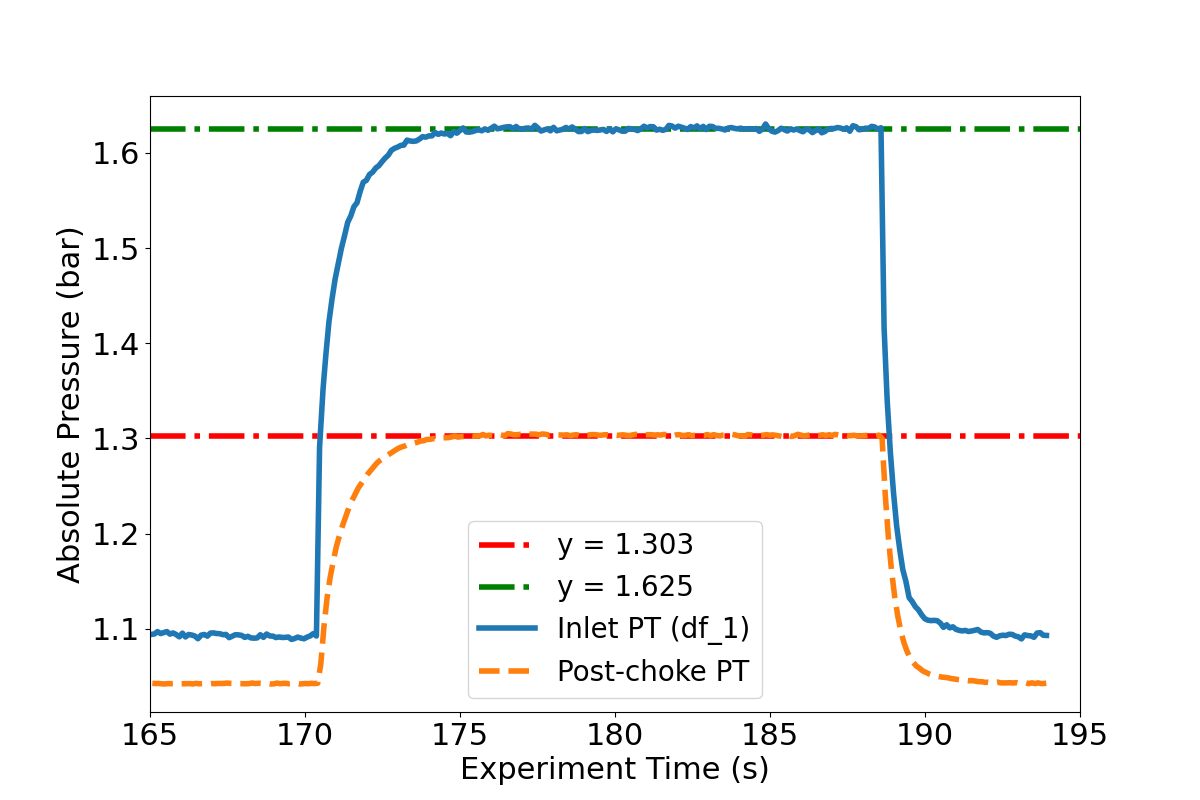
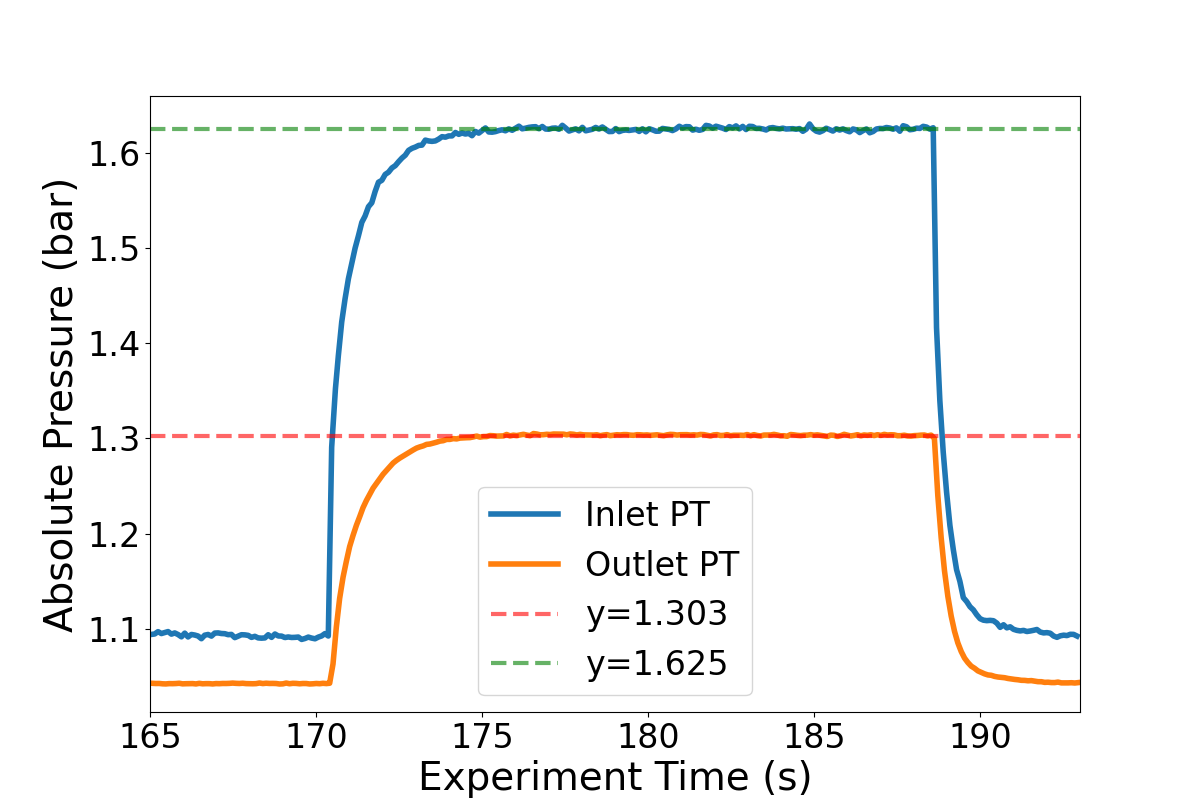
EOD push

diff --git a/latex/results.tex b/latex/results.tex
@@ -1,55 +1,96 @@
-\section{First Empty run through}\label{sec:static_test}
-\subsection{Test}
-I thought it would be good to try and categorise the static pressure losses from the flow through the tank with no sand and no piston. Unfortunately, this immediately presented some problems. Results of this test are seen below.
+\section{Characterising Pressure Source}\label{sec:static_test}
+\subsection{Initial Test}
+The first step in characterising the system was to investigate the static pressure losses present in the tank without a piston or any powder. This immediately presented a problem as the static pressure readings were far below expected, as seen in figure \autoref{fig:static-pressure-drop-3bar}. 
 \begin{figure}[htbp]
     \centering
 
     \begin{minipage}{0.45\textwidth}
         \centering
         \includegraphics[width=\textwidth]{../report_assets/3_bar_static_full.png}
-        \caption{pressure readings full.}\label{fig:static-pressure-drop-3bar_full}
+        \caption{Full 4 bar test.}\label{fig:static-pressure-drop-3bar_full}
     \end{minipage}
     \hfill
     \begin{minipage}{0.45\textwidth}
         \centering
         \includegraphics[width=\textwidth]{../report_assets/3_bar_static.png}
-        \caption{pressure readings of 3bar gauge.}\label{fig:static-pressure-drop-3bar}
+        \caption{Static pressure from 4 bar.}\label{fig:static-pressure-drop-3bar}
     \end{minipage}
     \begin{minipage}{0.45\textwidth}
         \centering
         \includegraphics[width=\textwidth]{../report_assets/4_bar_static.png}
-        \caption{pressure readings of 4bar gauge.}\label{fig:static-pressure-drop-4bar}
+        \caption{Static pressure from 5 bar.}\label{fig:static-pressure-drop-4bar}
     \end{minipage}
     \hfill
     \begin{minipage}{0.45\textwidth}
         \centering
         \includegraphics[width=\textwidth]{../report_assets/5_bar_static.png}
-        \caption{pressure readings of 5bar gauge.}\label{fig:static-pressure-drop-5bar}
+        \caption{Static pressure from 6 bar.}\label{fig:static-pressure-drop-5bar}
     \end{minipage}
 
 
 \end{figure}
-One thing of note is that the pressure transducer readings seem to deviate from atmospheric in fig 3 and 4. This is due to the solenoid valve leaking slightly allowing some air to pass through not miscalibration, yap about in appendix.
+If the compressed air line was truely supplying a stagnation pressure of 4 bar, through isentropic flow relations the data implies that the mach number of the flow is 1.3 which is unlikely.
 
-As seen in figure 1, the regulator was able to control the static pressure to 3 bar gauge when the system was closed. When the system was opened this static pressure dropped to 0.4 gauge. Even accounting for the dynamic pressure and assuming the flow was mach 1 through the 4mm nylon tube, this would put total pressure at roughly 1bar gauge not 3bar initially set.
-C
-ENTER DIAGRAMS SO ALL LEGENDS FIT AT BOTTOM CENTER
+As seen in \autoref{fig:static-pressure-drop-3bar_full}, the regulator was able to control the static pressure to 4 bar when the system was closed. When the system opens, one could expect that the regulator would maintain this 4 bar static pressure and only static pressure losses in the system and acceleration of the flow beyond the regulator would reduce it somewhat. However, by the time the flow reached the pressure transducer before the tank, the static pressure had dropped to 1.4 bar. 
+
+Assuming the flow was mach 1 through the nylon pipe, this would imply a stagnation pressure of roughly 2 bar not the 4 bar initially desired.
+
+\subsection{Further Investigation}
+In an attempt to diagnose this behaviour, a follow up test was conducted to check whether this was due to an incorrect system set up or was a product of the compressed air line.
+To further investigate this behaviour, the pressure regulator connected to the compressed air line was set to max (roughly 7bar) and a second regulator was introduced closer to the system. If the problem was large static pressure losses from the long nylon tube connecting the inlet of the experiment to the pressure source, a larger pressure during operation would have been observed. Additionally, if the pressure regulator was faulty or some other weird behaviour was occuring upstream of the setup, this could have indicated that.
+As seen in figure the performance was much worse giving even lower static pressure readings. 
+\begin{figure}[htbp]
+    \centering
+
+    \begin{minipage}{0.45\textwidth}
+        \centering
+        \includegraphics[width=\textwidth]{../report_assets/3_bar_static_new_reg.png}
+        \caption{New regulator.}\label{fig:static-pressure-drop-new-reg}
+    \end{minipage}
+    \hfill
+    \begin{minipage}{0.45\textwidth}
+        \centering
+        \includegraphics[width=\textwidth]{../report_assets/3_bar_static_no_solenoid.png}
+        \caption{New regulator + no solenoid.}\label{fig:static-pressure-drop-no-solenoid}
+    \end{minipage}
+
+\end{figure}
+As a final attempt, the solenoid valve was removed from the set up to verify that this wasnt choking the flow or somehow drastically decreasing static pressure somehow. Again, seen in fig 6, this performed similarly to the setup containing the regulator so wasn't the cause of the behaviour and the system diagram was reverted to \autoref{fig:systems-diagram}.
 \subsection{Simulation}
+A 2D Axisymmetric analysis of the empty tank was conducted using fluent. This seemed to support the idea that only 1bar of stagnation pressure was being supplied to the system, not the desired 3bar as setting the pressure inlet to 1bar gave comparable static pressure readings as seen in the tests.
+\begin{figure}[htbp]
+    \centering
+
+    \begin{minipage}{0.45\textwidth}
+        \centering
+        \includegraphics[width=\textwidth]{../report_assets/3_bar_static_new_reg.png}
+        \caption{New regulator.}\label{fig:static-pressure-drop-fluent}
+    \end{minipage}
+    \hfill
+    \begin{minipage}{0.45\textwidth}
+        \centering
+        \includegraphics[width=\textwidth]{../report_assets/3_bar_static_no_solenoid.png}
+        \caption{New regulator + no solenoid.}\label{fig:static-pressure-drop-report}
+    \end{minipage}
+
+\end{figure}
+
 
 \section{first test}
+yappa yappa
 \begin{figure}[htbp]
     \centering
 
     \begin{minipage}{0.45\textwidth}
         \centering
         \includegraphics[width=\textwidth]{../report_assets/3_bar_static_full.png}
-        \caption{pressure readings full.}\label{fig:static-pressure-drop-3bar_full}
+        \caption{pressure readings full.}\label{fig:static-pres-drop-3bar_full}
     \end{minipage}
     \hfill
     \begin{minipage}{0.45\textwidth}
         \centering
         \includegraphics[width=\textwidth]{../report_assets/3_bar_static.png}
-        \caption{pressure readings of 3bar gauge.}\label{fig:static-pressure-drop-3bar}
+        \caption{pressure readings of 3bar gauge.}\label{fig:static-pressurop-3bar}
     \end{minipage}
 
 \end{figure}
@@ -104,19 +145,19 @@ might run into the inherent cocking issue since pressure from sand is concentrat
 
 static pressure losses from the tank and set up alone
 
-3 bar (gauge) total goes to 1.405bar static and 1.195bar static = loss of 0.210bar static
-4 bar (gauge) total goes to 1.625bar static and 1.303bar static = loss of 0.322bar static
-5 bar (gauge) total goes to 1.852bar static and 1.432bar static = loss of 0.420bar static
+3 bar (gauge) stagnation goes to 1.405bar static and 1.195bar static = loss of 0.210bar static
+4 bar (gauge) stagnation goes to 1.625bar static and 1.303bar static = loss of 0.322bar static
+5 bar (gauge) stagnation goes to 1.852bar static and 1.432bar static = loss of 0.420bar static
 
 static pressure losses from the tank + piston
 
-3 bar (gauge) total goes to 1.425bar static and 1.209bar static = loss of 0.216bar static
-4 bar (gauge) total goes to 1.628bar static and 1.304bar static = loss of 0.324bar static
-5 bar (gauge) total goes to 1.831bar static and 1.431bar static = loss of 0.400bar static
+3 bar (gauge) stagnation goes to 1.425bar static and 1.209bar static = loss of 0.216bar static
+4 bar (gauge) stagnation goes to 1.628bar static and 1.304bar static = loss of 0.324bar static
+5 bar (gauge) stagnation goes to 1.831bar static and 1.431bar static = loss of 0.400bar static
 
 static pressure losses from the tank + new piston
 
-3 bar (gauge) total goes to 1.423bar static and 1.205bar static = loss of 0.218bar static
-4 bar (gauge) total goes to 1.645bar static and 1.311bar static = loss of 0.334bar static
-5 bar (gauge) total goes to 1.850bar static and 1.450bar static = loss of 0.400bar static
+3 bar (gauge) stagnation goes to 1.423bar static and 1.205bar static = loss of 0.218bar static
+4 bar (gauge) stagnation goes to 1.645bar static and 1.311bar static = loss of 0.334bar static
+5 bar (gauge) stagnation goes to 1.850bar static and 1.450bar static = loss of 0.400bar static
 

diff --git a/latex/introduction.tex b/latex/introduction.tex
@@ -1,16 +1,16 @@
-\section{Space as Resource POLISH}
-Space plays a vital role in advancing science, technology, and the broader progress of humanity. Through the exploration of space, scientists gain unique insights into the origins of the universe, the behavior of physical laws under extreme conditions, and the potential for life beyond Earth. Along with scientific descoveries, technological developments driven by space research often find critical applications on Earth. From satellite communications to microwaves, space technology improves everyday life and drives innovation across industries. Beyond tangible benefits, space exploration fosters curiosity, unity, and ambition, encouraging humanity to transcend borders and collaborate on solving challenges that face us collectively. As we expand our presence beyond Earth, space becomes not only a frontier of discovery but also a catalyst for technological and social progress on a global scale.
+\section{Space as Resource}
+Space plays a vital role in advancing science, technology, and the broader progress of humanity. Through the exploration of space, scientists gain unique insights into the origins of the universe, the behavior of physical laws under extreme conditions, and the potential for life elsewhere in the universe. Along with scientific descoveries, technological developments driven by space research often find critical applications on Earth. From satellite communications to microwaves, space technology improves everyday life and drives innovation across industries. Beyond tangible benefits, space exploration fosters curiosity, unity, and ambition, encouraging humanity to transcend borders and collaborate on solving challenges that face us collectively. As we expand our presence outside Earth, space becomes not only a frontier of discovery but also a catalyst for technological and social progress on a global scale.
 
-\section{Space as a Manufacturing Environment POLISH}
-In-space manufacturing is currently experiencing a surge in interest due to the continually decreasing cost per kilogram of putting payloads into space. With the expectation that Starship will soon reduce the price to \$150/kg from around \$1000/kg~\cite{nextbigfuture2024spacex}, there will be a plethora of new opportunities available to those that can successfully leverage the space environment to reduce the cost or increase the quality of advanced manufactured goods!!. Microgravity, high vacuum and abundant solar energy are all inherent to the space environment but are still very expensive to achieve on Earth. This!! means goods!! with these requirements during the manufacturing process would be much cheaper to make in space and bring back down to earth.
+\section{Space as a Manufacturing Environment}
+In-space manufacturing is currently experiencing a surge in interest due to the decreasing cost per kilogram of putting payloads into orbit. With the expectation that Starship will soon reduce the price from around \$1000/kg to \$150/kg~\cite{nextbigfuture2024spacex}, there will be a plethora of new opportunities available to those that can successfully leverage this exotic environment. Microgravity, high vacuum and abundant solar energy are all inherent to space, while remaining very expensive to achieve on Earth. Therefore, products that can utilise these during the manufacturing process would be more cost competitive or of a higher quality than those made on the ground.
 
-A good example of this is superconductors, !!applications of superconductors are currently being held back by their inability to sustain high currents. This is well known to be limited by the presence of grain boundaries~\cite{hilgenkamp2002grain} and therefore is!! a perfect candidate for in-space manufacturing. For many materials!!, microgravity allows for bigger crystal growth and a more homogenous structure~\cite{issnll_mccg}, opening the door for better superconductors, in turn facilitating new possibilities for terrestrial applications of superconductors.
+In many state-of-the-art materials, fabrication under microgravity results in bigger crystal growth and a more homogenous structure~\cite{issnll_mccg}. This is hugely beneficial for superconducting applications as they are constrained by the inability to sustain high currents, a limitation caused by the presence of grain boundaries~\cite{hilgenkamp2002grain}. Superconductors are, therefore, a perfect candidate for in-space manufacturing and higher quality crystals could unlock new terrestrial applications.
 
-Additionally, if a space manufacturing base were to be developed, it would also have significant implications for future missions. Currently, a harsh constraint on all space missions is the violent launch conditions that the vehicle's structure must go through to reach orbit. If parts of the vehicle could be manufactured in space, this can be avoided and would dramatically increase mission flexibility and reliability. !!
+In the longer term, an industrial base in low earth orbit would also have significant implications for the future of space. A harsh constraint on all current missions is the violent launch conditions that the spacecraft's structure must withstand before it reachs orbit. Manufacturing or assembling key components in space would circumvent this, increasing mission flexibility and reliability. At present, solar sail technology is limited by payload fairing dimensions and must fold down to fit within these. If the frames were manufactured in orbit, it would massively decrease mission complexity, enabling new propulsion platforms.
 
 \newpage
 \section{Additive Manufacturing in Space CLEAN}
-Additive manufacturing, also known as 3D printing, is a transformative technology that enables the layer-by-layer construction of complex structures from stock material. This approach is particularly well suited to space manufacturing due to its significantly lower material waste, high design flexibility, and the ease of transporting raw materials such as filament or powder. Prefabricated components like I-beams or plates can impose strict constraints on launch vehicle payload dimensions.!! Whereas raw materials for additive manufacturing are compact, lightweight, and adaptable to a wide range of mission needs.
+Additive manufacturing, also known as 3D printing, is a transformative technology that enables the layer-by-layer construction of complex structures from stock material. This approach is particularly well suited to space manufacturing due to its significantly lower material waste, high design flexibility, and the ease of transporting feedstock like filament or powder. Prefabricated components like I-beams or plates can impose strict constraints on launch vehicle payload dimensions.!! Whereas raw materials for additive manufacturing are compact, lightweight, and adaptable to a wide range of mission needs.
 
 For structural components of any space mission, the requirements to be compact enough to fit into the payload fairing and strong enough to withstand the launch vibrations sacrifice [efficiency and reliability wantt o get across big optimisation problem]. If these parts are manufactured once they are in orbit, the designs can be tailored to the orbital manoeuvre loads alone, increasing mission flexibility. !!
 

diff --git a/Research_Files/May/empty_run_through.py b/Research_Files/May/empty_run_through.py
@@ -13,25 +13,40 @@ df_2 = pd.read_csv(input_file_2)
 df_1 = df_1[['BackendTime', 'ch0sens']]
 df_2 = df_2[['BackendTime', 'ch1sens']]
 
-# Plot the values from df_1 against BackendTime
-
-# Plot a horizontal line at y = 1.2
 
 # Rescale BackendTime to seconds and set the first value to 0
 df_1['BackendTime'] = (df_1['BackendTime'] - df_1['BackendTime'].iloc[0]) / 1e3
 df_2['BackendTime'] = (df_2['BackendTime'] - df_2['BackendTime'].iloc[0] + 750) / 1e3
-plt.rc('legend', fontsize=18)  # Further increase legend font size
-plt.rc('lines', linewidth=3)   # Further increase line width
-plt.rc('axes', labelsize=20)   # Further increase axis label font size
-plt.figure(figsize=(12, 8))   # Increase figure size
-plt.rc('xtick', labelsize=20)  # Increase x-axis tick font size
-plt.rc('ytick', labelsize=20)  # Increase y-axis tick font size
-plt.plot(df_1['BackendTime'], df_1['ch0sens'], label='Inlet PT')
-plt.plot(df_2['BackendTime'], df_2['ch1sens'], label='Post-choke PT', linestyle='--')
 
+# df_1 = df_1[(df_1['BackendTime'] >= 322) & (df_1['BackendTime'] <= 341)] # 3bar
+# df_2 = df_2[(df_2['BackendTime'] >= 322) & (df_2['BackendTime'] <= 341)] # 3bar
+# df_1 = df_1[(df_1['BackendTime'] >= 165) & (df_1['BackendTime'] <= 193)] # 4bar
+# df_2 = df_2[(df_2['BackendTime'] >= 165) & (df_2['BackendTime'] <= 193)] # 4bar
+# df_1 = df_1[(df_1['BackendTime'] >= 145) & (df_1['BackendTime'] <= 180)] # 5bar
+# df_2 = df_2[(df_2['BackendTime'] >= 145) & (df_2['BackendTime'] <= 180)] # 5bar
+plt.rc('legend', fontsize=24)   # Increase legend font size
+plt.rc('lines', linewidth=4)    # Further increase line width
+plt.rc('axes', labelsize=28)    # Increase axis label font size
+plt.figure(figsize=(12, 8))    # Increase figure size
+plt.rc('xtick', labelsize=24)   # Increase x-axis tick font size
+plt.rc('ytick', labelsize=24)   # Increase y-axis tick font size
+plt.plot(df_1['BackendTime'], df_1['ch0sens'], label='Inlet PT')
+plt.plot(df_2['BackendTime'], df_2['ch1sens'], label='Outlet PT')
+# Add horizontal lines at y=1.303 and y=1.625 with labels
+# plt.axhline(y=1.195, color='red', linestyle='--', linewidth=3, label='y=1.195') # 3bar
+# plt.axhline(y=1.405, color='green', linestyle='--', linewidth=3, label='y=1.405') # 3bar
+# plt.axhline(y=1.303, color='red', linestyle='--', linewidth=3, label='y=1.303') # 4bar
+# plt.axhline(y=1.625, color='green', linestyle='--', linewidth=3, label='y=1.625') # 4bar
+# plt.axhline(y=1.432, color='red', linestyle='--', linewidth=3, label='y=1.432') # 5bar
+# plt.axhline(y=1.852, color='green', linestyle='--', linewidth=3, label='y=1.852') # 5bar
+# for line in plt.gca().lines[-2:]:
+#     line.set_alpha(0.6)
 # Add labels and title
 plt.xlabel('Experiment Time (s)')
 plt.ylabel('Absolute Pressure (bar)')
+# plt.xlim(322, 341) # 3bar
+# plt.xlim(165, 193) # 4bar
+# plt.xlim(145, 177) # 5bar
 plt.legend()
 
 # Show the plot

diff --git a/latex/methodology.tex b/latex/methodology.tex
@@ -107,7 +107,8 @@ Low pressures were investiaged, both because it makes the experiment easier but 
 \end{figure}
 
 \subsection{Pressure Source}
-Due to safety and ease of handling, the desired 3 bar total pressure supplied into the system came from a compressed air line. 
+Due to safety and ease of handling, the desired stagnation pressure supplied into the system came from a compressed air line. As discussed in \autoref{sec:static_test}, characterising the air supply was not trivial and multiple tests were conducted. 
+The first of these involved disconnecting the tank from the system and replacing it with a pushfit end cap to tune the regulator. As seen in figure  
 \newpage
 \subsection{Hopper tank design}
 As seen in \autoref{appendix:feed-architecture-analysis}, there are many ways the feed system can be messed up, especially around pressurising and depressurising the vessle. Therefore, for the tank to perform its function correctly, it must be resistant to these problems as well as managing the position of the powder during operations. Typically, fluid containing tanks can use the plethora of propellant management devices which take advantage of surface tension to keep the fuel close to the outlet. For this tank, this isn't possible and so a piston design was used. This has the advantage of being another component of the system that can be optimised to achieve the desired mass flow rate but has implications for the rest of the design. The piston is much better suited to long thin tank designs which typically perform worse under high pressures than their circular counterparts. Additionally, the demands on the geometry make it harder to scale up. The aspect ratio of the piston is important to prevent cocking!!!cite!!! so a wider tank requires a much bigger piston and a longer tank may have implications on the inlet pressure required due to the flow through the powder reducing the static pressure of the gas!!!check this is true!!!
